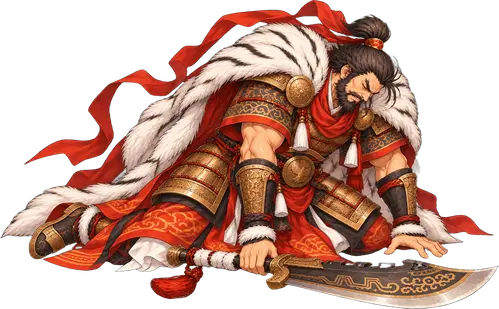
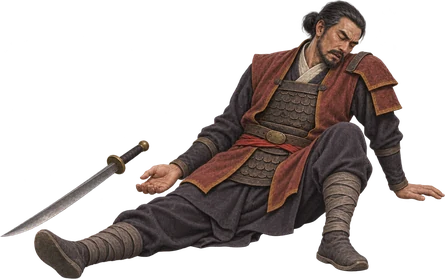
feat: dựng lại hình Phạm Bạch Hổ theo bộ tranh mới
Bộ 6 tranh Shan gửi 03/11 theo RB-009 (áo khoác cộc đỏ nâu, giáp vảy, đai da và dải đỏ,
đao một lưỡi) thay bộ áo choàng lông hổ cũ. Ảnh đứng tách lớp bằng code: cẳng tay cùng
thanh đao xoay quanh chỗ cắt dưới khuỷu, bàn tay đặt trên đai, đầu. Tranh tư thế ghép
theo thứ tự khung của prompt; thêm tranh đánh thường và phong thái; bỏ các lớp vải cũ
ribbon, cape, apron, sleeve.

Claude-Session: https://claude.ai/code/session_013ZWRLjVBHAqXYTQSkSZwJr

diff --git a/src/app/game/stage/rigs.ts b/src/app/game/stage/rigs.ts
@@ -797,44 +797,47 @@ const NGO_NHAT_KHANH: WarriorRig = {
     anchor: { x: 850, y: 900 }, scale: 1 },
 };
 
-/** Phạm Bạch Hổ, tướng sĩ hệ Hỏa. Tách lớp từ tranh 1024×1536, áo choàng lông hổ bay sau tay đao. */
+/**
+ * Phạm Bạch Hổ, tướng sĩ hệ Hỏa. Bộ tranh Shan gửi 03/11 (nền trong suốt sẵn) theo RB-009: áo khoác cộc đỏ nâu, giáp
+ * vảy, đai da và dải đỏ, đao một lưỡi cầm buông bên phải, thay bộ áo choàng lông hổ cũ. Ảnh đứng tách lớp bằng code:
+ * cẳng tay cùng thanh đao xoay quanh chỗ cắt dưới khuỷu (cẳng tay không chồng lên thân nên không cần vá), bàn tay đặt
+ * trên đai (vá bằng khuếch tán màu), đầu. Hệ tọa độ: ảnh đứng 1024×1536.
+ */
 const PHAM_BACH_HO: WarriorRig = {
   skeleton: "warrior",
   dir: "pham-bach-ho",
   texScale: 0.5,
-  foot: { x: 650, y: 1510 },
-  height: 1511,
+  foot: { x: 525, y: 1465 },
+  height: 1387,
   parts: {
-    body: { x: 93, y: 10, w: 929, h: 1511 },
-    armR: { x: 819, y: 403, w: 146, h: 222 },
-    sword: { x: 3, y: 580, w: 481, h: 757 },
-    arm: { x: 272, y: 382, w: 234, h: 385 },
-    head: { x: 573, y: 10, w: 206, h: 226 },
+    body: { x: 257, y: 78, w: 547, h: 1392 },
+    armR: { x: 577, y: 607, w: 117, h: 119 },
+    sword: { x: 44, y: 880, w: 272, h: 434 },
+    arm: { x: 225, y: 664, w: 116, h: 216 },
+    head: { x: 400, y: 78, w: 220, h: 252 },
   },
-  cloth: [
-    { name: "ribbon", box: { x: 219, y: 62, w: 433, h: 306 }, behind: true,
-      wind: { axis: "x", start: 0.2, amp: 6, freq: 1.6, k: 3, phase: 0.3, vertical: true, reverse: true } },
-    { name: "cape", box: { x: 151, y: 312, w: 415, h: 844 }, behind: true,
-      wind: { axis: "y", start: 0.2, amp: 4, freq: 1.2, k: 2.8, phase: 1.4 } },
-    { name: "apron", box: { x: 315, y: 850, w: 321, h: 193 },
-      wind: { axis: "y", start: 0.3, amp: 2, freq: 1.35, k: 2.6, phase: 2.1 } },
-  ],
-  covers: [{ name: "sleeve", box: { x: 353, y: 301, w: 183, h: 126 } }],
+  cloth: [],
+  covers: [],
   joints: {
-    shoulder: { x: 440, y: 400 },
-    elbowR: { x: 905, y: 450 },
-    neck: { x: 685, y: 207 },
+    shoulder: { x: 300, y: 668 },
+    elbowR: { x: 685, y: 630 },
+    neck: { x: 515, y: 305 },
   },
-  blade: [{ x: 315, y: 780 }, { x: 10, y: 1330 }],
+  blade: [{ x: 265, y: 870 }, { x: 50, y: 1305 }],
   fxColor: 0xff913f,
+  // Theo thứ tự khung của prompt RB-009: chém ngang ngang ngực (đánh thường), bước tới chém chéo xuống, tay kia mở ra sau
+  // (ra chiêu), sải bước giơ đao qua vai phải (tuyệt chiêu). Cỡ so theo chiều cao đầu.
   poses: {
-    cast: { name: "pose-cast", texScale: 1 / 3, origin: { x: 29, y: 67 },
-      anchor: { x: 710, y: 1006 }, scale: 1.12, burst: { x: 1500, y: 90 } },
-    ultimate: { name: "pose-ultimate", texScale: 1 / 3, origin: { x: 37, y: 9 },
-      anchor: { x: 800, y: 1010 }, scale: 1, burst: { x: 1440, y: 430 } },
+    attack: { name: "pose-attack", texScale: 0.3, origin: { x: 268, y: 25 },
+      anchor: { x: 610, y: 1075 }, scale: 1, burst: { x: 1360, y: 356 } },
+    cast: { name: "pose-cast", texScale: 0.3, origin: { x: 274, y: 37 },
+      anchor: { x: 650, y: 975 }, scale: 1, burst: { x: 1274, y: 802 } },
+    ultimate: { name: "pose-ultimate", texScale: 0.3, origin: { x: 97, y: 67 },
+      anchor: { x: 510, y: 1380 }, scale: 1, burst: { x: 667, y: 73 } },
   },
-  down: { name: "pose-down", texScale: 1 / 3, origin: { x: 21, y: 61 },
-    anchor: { x: 910, y: 965 }, scale: 1 },
+  // Ngồi ngả nghiêng, một tay chống đất, đao rơi bên cạnh.
+  down: { name: "pose-down", texScale: 0.3, origin: { x: 18, y: 76 },
+    anchor: { x: 800, y: 900 }, scale: 1 },
 };
 
 /** Ngô Xương Xí, mưu sĩ hệ Kim. Quạt lông và tay áo dùng nhịp phẩy nhẹ, tọa độ tranh 1024×1536. */

diff --git a/tests/game/rigs.test.ts b/tests/game/rigs.test.ts
@@ -1876,3 +1876,30 @@ test("Ngô Nhật Khánh cầm giáo: đủ bốn tranh tư thế, khớp nằm 
     assert.equal(data.readUIntLE(27, 3) + 1, Math.floor(box.h * rig.texScale), name);
   }
 });
+
+test("Phạm Bạch Hổ bộ mới cầm đao: đủ bốn tranh tư thế, khớp nằm trong lớp và texture khớp tọa độ", () => {
+  const rig = rigOf("phamBachHo");
+  assert.ok(rig?.skeleton === "warrior");
+  assert.equal(rig.weapon, undefined);
+  assert.deepEqual(rig.cloth, []);
+  assert.deepEqual(rig.covers, []);
+  assert.equal(rig.poses?.attack?.name, "pose-attack");
+  assert.equal(rig.poses?.cast?.name, "pose-cast");
+  assert.equal(rig.poses?.ultimate?.name, "pose-ultimate");
+  assert.equal(rig.down?.name, "pose-down");
+  const contains = (p: { x: number; y: number }, box: { x: number; y: number; w: number; h: number }) =>
+    assert.ok(p.x > box.x && p.x < box.x + box.w && p.y > box.y && p.y < box.y + box.h, `${JSON.stringify(p)} ngoài lớp`);
+  contains(rig.joints.shoulder, rig.parts.arm);
+  contains(rig.joints.elbowR, rig.parts.armR);
+  contains(rig.joints.neck, rig.parts.head);
+  contains(rig.joints.neck, rig.parts.body);
+  let bytes = 0;
+  for (const name of partsOf(rig)) bytes += statSync(`public${partUrl(rig, name)}`).size;
+  assert.ok(bytes <= 350_000, `${bytes} bytes vượt ngân sách`);
+  for (const [name, box] of Object.entries(rig.parts)) {
+    const data: Buffer = readFileSync(`public${partUrl(rig, name)}`);
+    assert.equal(data.toString("ascii", 12, 16), "VP8X");
+    assert.equal(data.readUIntLE(24, 3) + 1, Math.floor(box.w * rig.texScale), name);
+    assert.equal(data.readUIntLE(27, 3) + 1, Math.floor(box.h * rig.texScale), name);
+  }
+});

diff --git a/docs/06-art/prompts/v4-2/01-chinh-lich-su-su-quan.md b/docs/06-art/prompts/v4-2/01-chinh-lich-su-su-quan.md
@@ -732,7 +732,7 @@ QUALITY GATE: Identical Trần Lãm facial identity in all frames; fixed origina
 
 ### RB-009 — Phạm Bạch Hổ (Phạm Phòng Át) · Tướng sĩ / Hỏa
 
-> Trạng thái riêng: **DRAFT** — đề xuất Historical-first pilot ngày 03/11/2026; **CHƯA duyệt Master mới hoặc 6 ảnh**, không ghi đè ảnh/weapon reference đã được duyệt. Thử từng nhân vật, sai đâu sửa đó.
+> Trạng thái riêng: **DRAFT** — đề xuất Historical-first pilot ngày 03/11/2026; **CHƯA duyệt Master mới hoặc 6 ảnh**, không ghi đè ảnh/weapon reference đã được duyệt. Thử từng nhân vật, sai đâu sửa đó. Shan gửi sáu PNG cùng ngày, đã tích hợp runtime (`public/art/characters/pham-bach-ho/`) theo thứ tự khung: 1 → ảnh đứng tách lớp, 2 → `pose-attack`, 3 → `pose-cast`, 4 → `pose-ultimate`, 5 → `pose-down`, 6 → `style`.
 
 #### Nhận dạng, lịch sử và ranh giới sáng tạo
 
